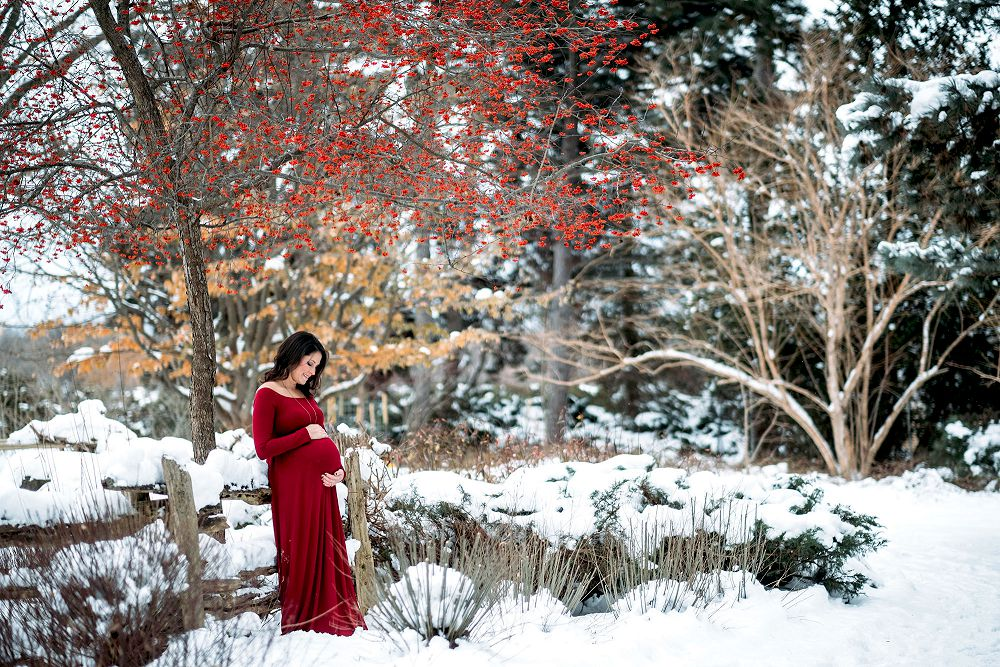
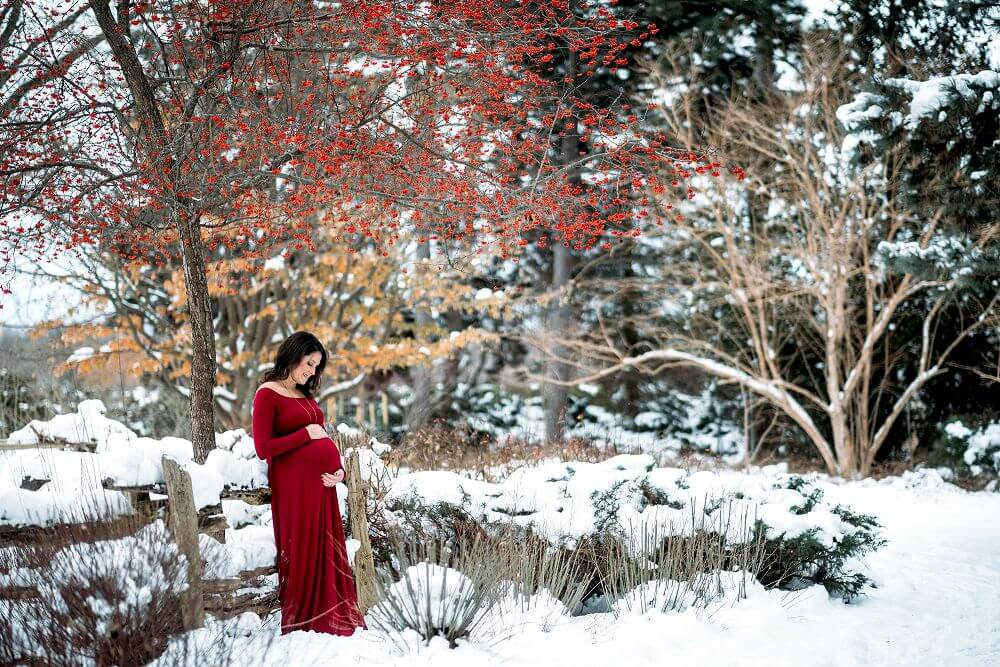
changed showcase 1 image and reduced other img sizes

diff --git a/index.html b/index.html
@@ -11,8 +11,8 @@
   gtag('config', 'UA-15287004-1');
 </script>
 
-    <meta name="description" content="Photographing Weddings, Elopements, Engagements and Family Portraits in The Niagara Region Since 2009. Specializing in Smaller Weddings and Elopements">
-    <meta property="og:description" content="Photographing Weddings, Elopements, Engagements and Family Portraits Since 2009. Specializing in Smaller Weddings and Elopements">
+    <meta name="description" content="Photographing Weddings, Elopements, Engagements and Family Portraits in The Niagara Region Since 2009. Specializing in Smaller Weddings and Elopements. Also offering wedding photography in the Hamilton region.">
+    <meta property="og:description" content="Photographing Weddings, Elopements, Engagements and Family Portraits Since 2009. Specializing in Smaller Weddings and Elopements. Also offering wedding photography in the Hamilton region.">
     <meta property="og:site_name" content="Niagara Wedding, Elopement & Family Photographer">
     <meta property="og:type" content="website">
     <meta property="og:title" content="Niagara Wedding, Elopement & Family Photographer">
@@ -28,7 +28,7 @@
     ></script>
     <link rel="stylesheet" href="style.css" />
     <link rel="stylesheet" href="mobile.css">
-    <title>Jesse James Photography | Niagara Wedding, Elopement & Family Photographer</title>
+    <title>Niagara Wedding, Elopement & Family Photographer | Jesse James Photography</title>
   </head>
   <body>
     <div id="fb-root"></div>
@@ -54,7 +54,7 @@
     <!-- showcase 1 -->
     <section id="showcase1">
       <div class="showcase-container">
-        <img src="./img/Niagara_Photographer.jpg" alt="Niagara Wedding Photographer">
+        <img src="./img/DSC01358.jpg" alt="Niagara Wedding Photographer">
         <div class="showcase-content">
           <h2 class='typewriter'>Jesse James Photography</h2>
           <h1>Niagara Wedding and Family Photographer</h1>
@@ -96,8 +96,8 @@
     </section>
     <div class="socialTitle">Social</div>
     <div class="socialMedia">
-      
-      <div class="fb-post" data-href="https://www.facebook.com/JesseJamesPhoto/posts/10157936438989331" data-show-text="true" data-width="300"><blockquote cite="https://developers.facebook.com/JesseJamesPhoto/posts/10157936438989331" class="fb-xfbml-parse-ignore"><p>Some couples are just so much fun to photograph!</p>Posted by <a href="https://www.facebook.com/JesseJamesPhoto/">Jesse James Photography</a> on&nbsp;<a href="https://developers.facebook.com/JesseJamesPhoto/posts/10157936438989331">Thursday, June 11, 2020</a></blockquote></div>
+
+      <div class="fb-post" data-href="https://www.facebook.com/JesseJamesPhoto/posts/10157994204834331" data-show-text="true" data-width="300"><blockquote cite="https://developers.facebook.com/JesseJamesPhoto/posts/10157994204834331" class="fb-xfbml-parse-ignore"><p>I loved Brooke and Simon&#039;s engagement shoot down in the Falls and Niagara on the Lake over the weekend. That evening light was just 👌 The two of them are going to have an amazing wedding in England next year!</p>Posted by <a href="https://www.facebook.com/JesseJamesPhoto/">Jesse James Photography</a> on&nbsp;<a href="https://developers.facebook.com/JesseJamesPhoto/posts/10157994204834331">Tuesday, June 30, 2020</a></blockquote></div>
 
       <div class="fb-post" data-href="https://www.facebook.com/JesseJamesPhoto/posts/10157951051744331" data-show-text="true" data-width="300"><blockquote cite="https://developers.facebook.com/JesseJamesPhoto/posts/10157951051744331" class="fb-xfbml-parse-ignore"><p>Wow! Somehow running a family promotion and giveaway turned into booking 5 weddings for 2021 in a day as well. I&#039;ll take...</p>Posted by <a href="https://www.facebook.com/JesseJamesPhoto/">Jesse James Photography</a> on&nbsp;<a href="https://developers.facebook.com/JesseJamesPhoto/posts/10157951051744331">Tuesday, June 16, 2020</a></blockquote></div>
 
@@ -151,7 +151,7 @@
     <!-- showcase 3 -->
     <section class="showcase3">
       <div class="showcase-container">
-        <img src="./img/niagara_falls_photographer2.jpg" alt="Niagara Wedding Photography Prices">
+        <img src="./img/niagara_falls_photographer.jpg" alt="Niagara Wedding Photography Prices">
         <div class="showcase-content">
           <h3>Investment</h3>
         </div>
@@ -278,7 +278,7 @@
           <img src="img/niagara_family_photography.jpg" alt="Family Photography">
         </div>
         <div class="slide">
-          <img src="img/Cherry_avenue_fam_wedding.jpg" alt="Niagara Wedding Photography">
+          <img src="img/Cherry_avenue_farm_wedding.jpg" alt="Niagara Wedding Photography">
         </div>
         <div class="slide">
           <img src="img/Niagara_falls_destination_photography.jpg" alt="Niagara Falls destination photography">

diff --git a/style.css b/style.css
@@ -149,7 +149,7 @@ html {
   width: 100%;
   height: 80vh;
   object-fit: cover;
-  opacity: .8;
+  opacity: .9;
 }
 
 .showcase-content h3{
@@ -237,13 +237,10 @@ html {
 
 .socialMedia{
   display: flex;
-  /* flex-direction: column; */
   justify-content: space-between;
   width: 1200px;
   margin: 50px auto;
-
 }
-
 /* services */
 
 .services-container{

diff --git a/mobile.css b/mobile.css
@@ -41,7 +41,6 @@
     align-items: center;
     text-align: center;
     width: auto;
-    
     margin: 50px auto;
   }
 
